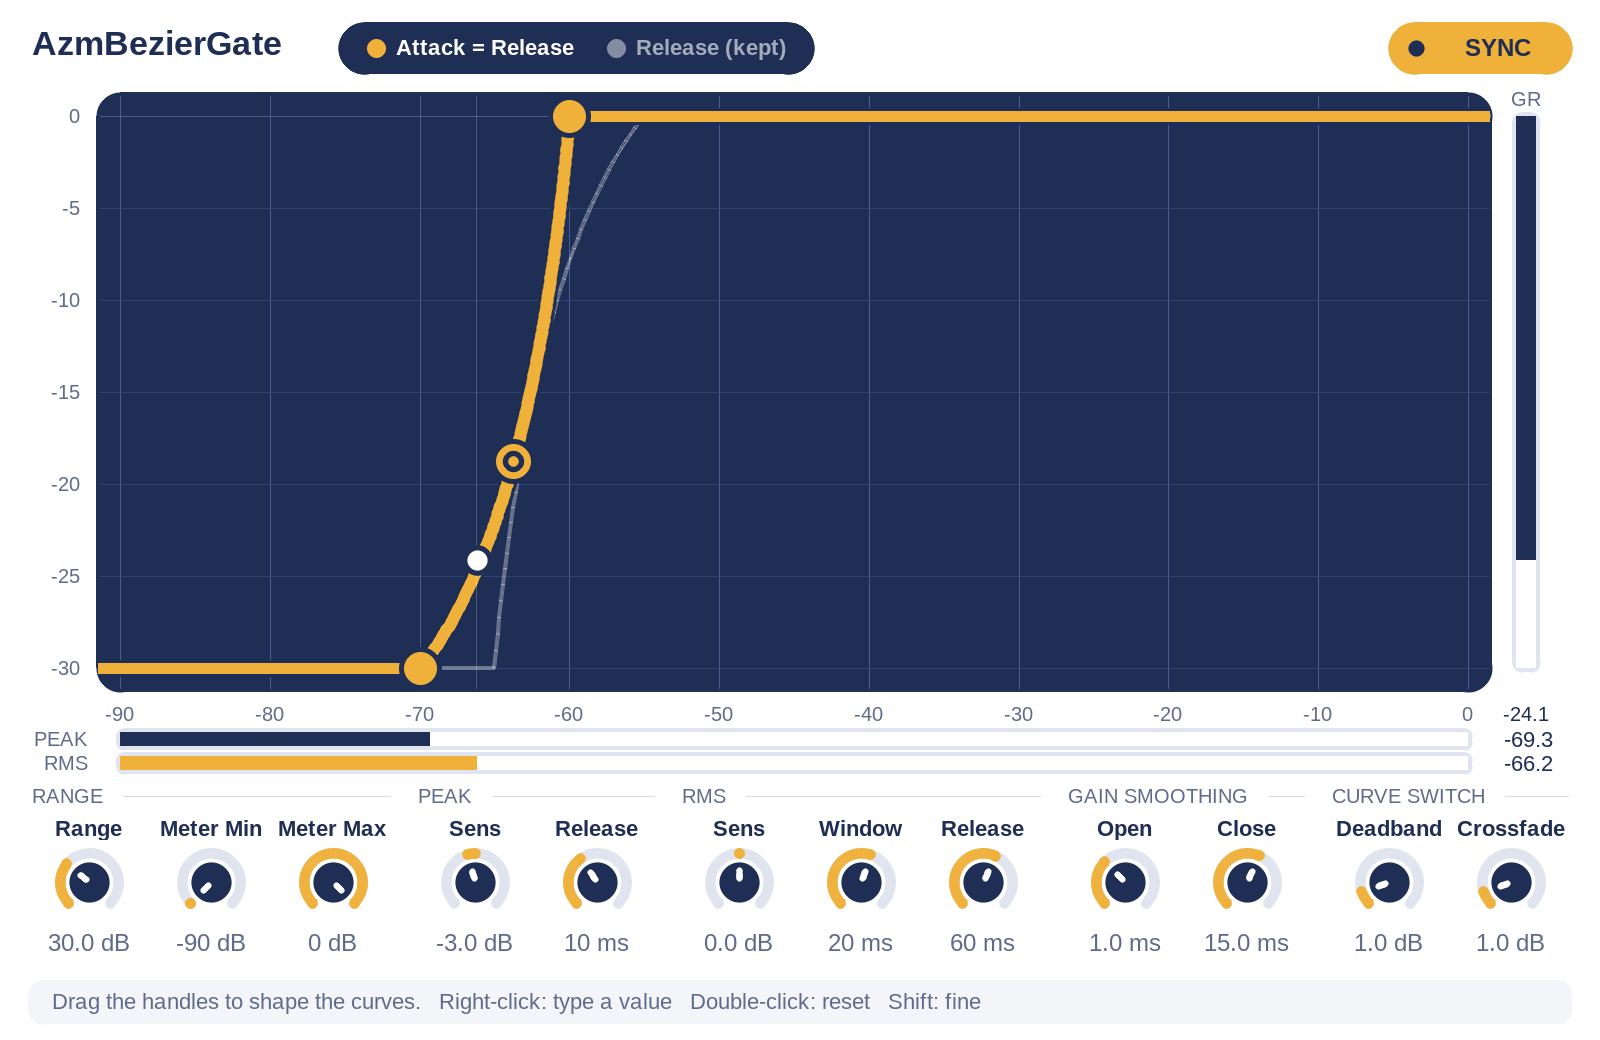
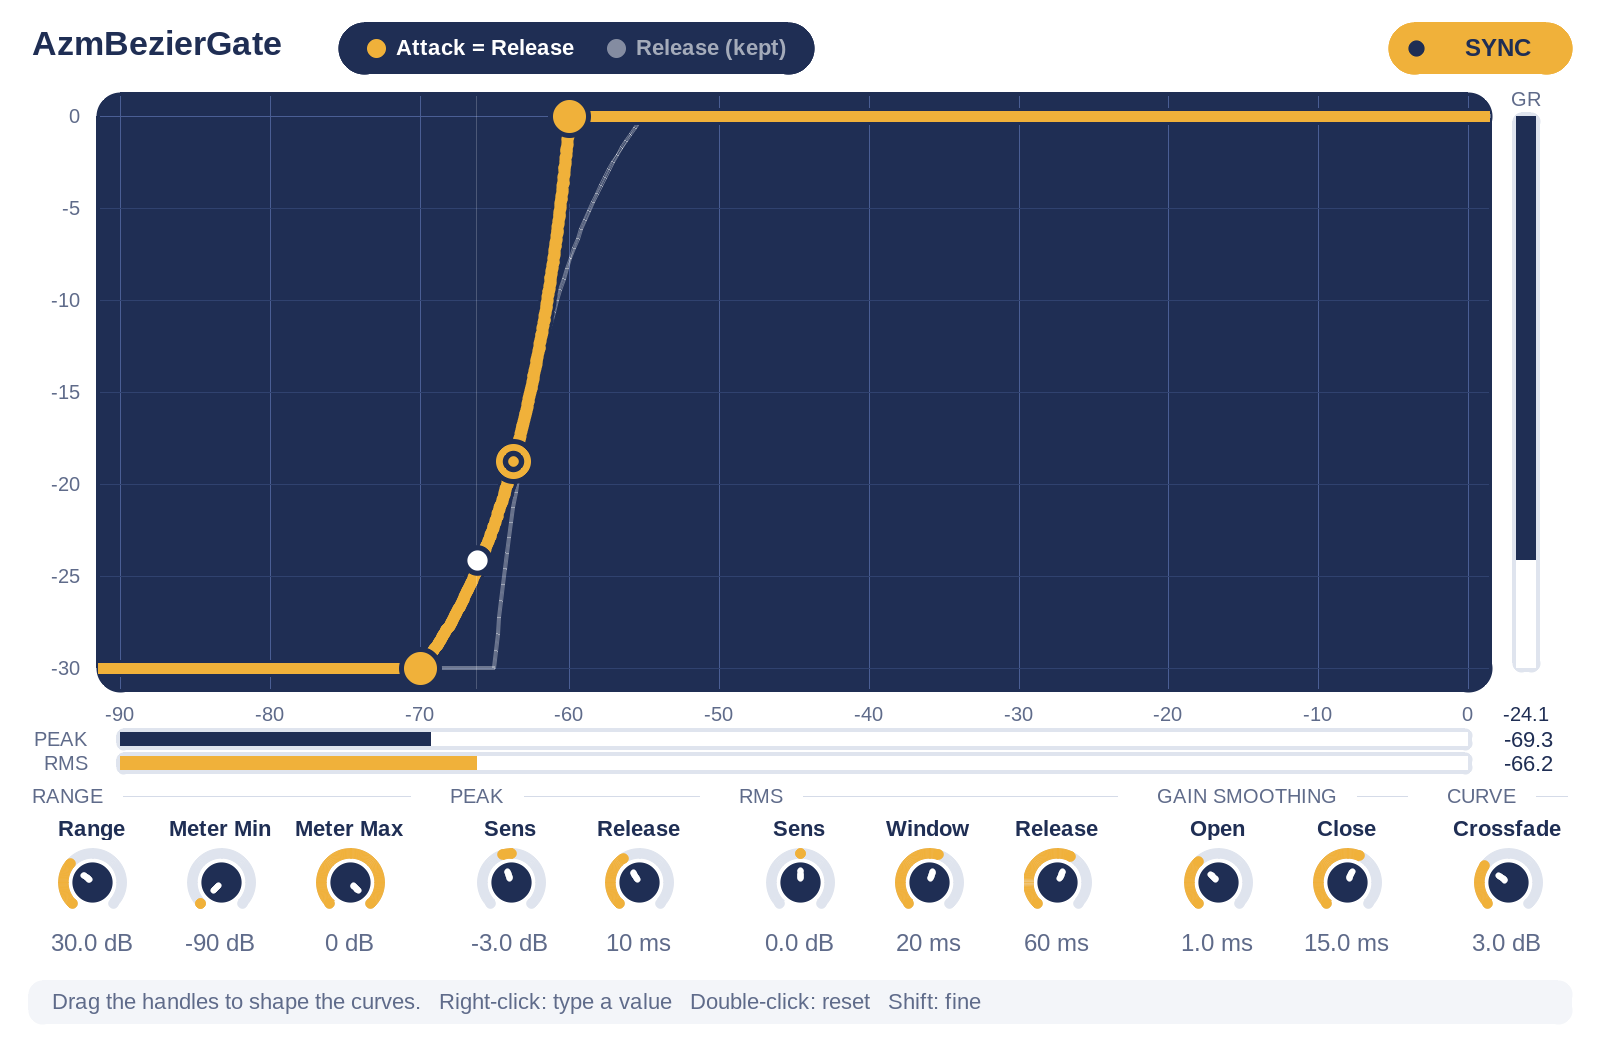
Keep only the Crossfade knob (default 3 dB); dead-band back to fixed 3 dB
Remove the Deadband knob: the direction dead-band is a fixed 3 dB constant
again. Crossfade stays adjustable (0-10 dB, default 3 dB, slider 18), so the
default output is bit-identical to the version before the curve-switch knobs.
The last knob group is now "CURVE" with a single Crossfade knob, and the knob
row layout is tidied for 11 knobs. README, algorithm doc and screenshots are
updated to match.

Changed region(s): [[0.0312, 0.7385, 0.9688, 0.9231]]

diff --git a/README.md b/README.md
@@ -83,7 +83,7 @@ TDR Kotelnikov の Peak と RMS のリリースをヒントに、異なる時間
 | PEAK | Sens / Release | Peak 検知の感度と、検知値が下がる遅さ。 |
 | RMS | Sens / Window / Release | RMS 検知の感度、平均時間、検知値が下がる遅さ。 |
 | GAIN SMOOTHING | Open / Close | ゲインが開くとき・閉じるときの平滑時間。 |
-| CURVE SWITCH | Deadband / Crossfade | 上がる・下がるの切り替えの鈍さ（0〜10 dB。下記）。Attack が左のときだけ効く。 |
+| CURVE | Crossfade | Attack が左のとき、上がる／下がるが切り替わったあとに、目標を一方のカーブから他方へ移す幅（0〜10 dB）。 |
 
 最下段の帯には操作のヒントが出ます。ハンドルやつまみにマウスを乗せると、その説明に切り替わります。
 
@@ -112,18 +112,12 @@ TDR Kotelnikov の Peak と RMS のリリースをヒントに、異なる時間
 | Attack が左（既定値。Attack -70 / -60 dB、Release -65 / -55 dB） | 小さい音から先に Attack で開く。下がるときは Release に沿って、開いたときより高いレベルから閉じ始める。ゲインは2本のカーブの間でループを描く。 |
 | Attack が右 | 2本の間（グラフで薄く塗った帯）にいる間は、ゲインを保持する（ヒステリシス）。上がるときは Attack まで、下がるときは Release まで動かないと変化しない。 |
 
-上がる・下がるが細かく入れ替わる音（息や声の揺らぎ）では、ゲインが2本のカーブの間を行き来して「バチバチ」しやすくなります。Attack が左のとき、これを下段の **CURVE SWITCH** の2つのつまみ（0〜10 dB、既定値はどちらも 1 dB）で抑えています。
+上がる・下がるが細かく入れ替わる音（息や声の揺らぎ）では、ゲインが2本のカーブの間を行き来して「バチバチ」しやすくなります。Attack が左のとき、これを次の2つで抑えています。
 
-- **Deadband（不感帯）**：上がる・下がるを切り替えるのは、レベルが直前の頂点（谷）から Deadband 以上逆向きに動いたとき。それより小さな揺れでは向きを変えず、ゲインはそのまま保持する。
-- **Crossfade**：向きが切り替わったあと、目標を Attack から Release（またはその逆）へ、レベルが Crossfade 動く間にゆるやかに移す。目標が飛び移らない。0 dB にすると、ほぼ瞬時に切り替わる。
+- **3 dB の不感帯（固定値）**：上がる・下がるを切り替えるのは、レベルが直前の頂点（谷）から 3 dB 以上逆向きに動いたとき。それより小さな揺れでは向きを変えず、ゲインはそのまま保持する。
+- **クロスフェード（つまみ。0〜10 dB、既定値 3 dB）**：向きが切り替わったあと、目標を Attack から Release（またはその逆）へ、レベルがこの幅だけ動く間にゆるやかに移す。目標が飛び移らない。0 dB にすると、ほぼ即座に切り替わる。
 
-調整の目安です。
-
-- 細かい「バチバチ」が残るときは、Deadband を上げる（揺れの幅より少し大きく）。上げすぎると、ピークのあとに閉じ始めるのが遅れ、そのあと一気に閉じる。
-- 向きが切り替わったときの段差（「ブツッ」）が気になるときは、Crossfade を上げるか、Gain Smooth Open を長くする。
-- 既定値の 1 dB は控えめな値です。3 dB にすると、細かい揺れをより強く抑えられますが、ピークのあとに閉じ始めるのが、その分遅れます。
-
-実際のゲインは、さらに Gain Smoothing でなだらかになります。この2つは、Attack が右のときと Sync が On のときは使いません。動きの詳細と測定結果は [`docs/algorithm.md`](docs/algorithm.md) の 3 章にあります。
+実際のゲインは、さらに Gain Smoothing でなだらかになります。3 dB を超えて本当に向きが変わったときは、新しい目標へ Gain Smoothing の速さで動くため、数 dB の段差が出ることがあります。気になる場合は、Crossfade を大きくするか、Gain Smooth Open / Close を長くしてください。Crossfade を大きくすると、ピークのあとにゲインが Release のカーブへ完全に移るまでが、その分遅くなります。動きの詳細と測定結果は [`docs/algorithm.md`](docs/algorithm.md) の 3 章にあります。
 
 **Sync Attack / Release** は、一時的なモードです。
 
@@ -158,8 +152,7 @@ TDR Kotelnikov の Peak と RMS のリリースをヒントに、異なる時間
 | Gain Smooth Close (ms) | 0.1〜500 | 15 | ゲインが閉じる方向の平滑時定数。 |
 | Meter Min (dB) | -90〜-30 | -90 | グラフの横軸と Peak / RMS メーターの下限。表示だけに影響する。 |
 | Meter Max (dB) | -60〜0 | 0 | グラフの横軸と Peak / RMS メーターの上限。表示だけに影響する。 |
-| Curve Switch Deadband (dB) | 0〜10 | 1 | 上がる・下がるを切り替えるのに必要な、逆向きのレベルの動き。これより小さい揺れでは、向きもゲインも変えない（Attack が左のときだけ効く）。 |
-| Curve Switch Crossfade (dB) | 0〜10 | 1 | 向きが切り替わったあと、目標を Attack ⇔ Release へ移す間のレベルの動き。0 だと、ほぼ瞬時に切り替わる（Attack が左のときだけ効く）。 |
+| Crossfade (dB) | 0〜10 | 3 | 上がる／下がるが切り替わったあと、目標を一方のカーブから他方へ移すのに、レベルが動く幅。0 でほぼ即座に切り替わる。Attack が右のとき、Sync が On のときは使われない。 |
 
 ### アルゴリズムの概要
 
@@ -168,7 +161,7 @@ TDR Kotelnikov の Peak と RMS のリリースをヒントに、異なる時間
 - 検知は L/R の絶対値の大きい方（ステレオリンク）で行い、同じゲインを両チャンネルにかける。ルックアヘッドはなく、遅延は加わらない。
 - **Peak** は即時アタック＋指数リリース。**RMS** は2乗平均の1次平滑＋リリースで、正弦波ではピークと同じ値になるよう合わせてある。それぞれに感度（dB）をかけ、大きい方を検知レベルとする。
 - **カーブ**は Close〜Open を 0〜1 に正規化し、制御点を1つ持つ2次ベジェ曲線で結ぶ。Shape が制御点の位置にあたる。逆算は閉じた式で、反復計算はない。
-- **上がる／下がるの判定と目標ゲイン**：Attack が左のとき（既定）は、検知レベルが上がっているか下がっているかを、Deadband（既定 1 dB）の不感帯付きで判定する。上がっている間は Attack、下がっている間は Release のカーブを目標とし、向きが変わった直後は、レベルが Crossfade（既定 1 dB）動く間に目標を一方から他方へ移す。ゲインは、上がっている間は開く方向（Gain Smooth Open）にだけ、下がっている間は閉じる方向（Close）にだけ、目標へ動く。Attack が右のときは、2本のカーブの間でゲインを保持し、下回れば開く方向、上回れば閉じる方向へ動かす。
+- **上がる／下がるの判定と目標ゲイン**：Attack が左のとき（既定）は、検知レベルが上がっているか下がっているかを、3 dB の不感帯付きで判定する。上がっている間は Attack、下がっている間は Release のカーブを目標とし、向きが変わった直後は、レベルが Crossfade（既定 3 dB）動く間に目標を一方から他方へ移す。ゲインは、上がっている間は開く方向（Gain Smooth Open）にだけ、下がっている間は閉じる方向（Close）にだけ、目標へ動く。Attack が右のときは、2本のカーブの間でゲインを保持し、下回れば開く方向、上回れば閉じる方向へ動かす。
 - **ゲイン平滑**は dB の領域の1次平滑で、開く方向と閉じる方向で時定数を分けている。
 - 再生開始時（JSFX の初期化後の最初のサンプル）は、そのときの検知レベルに対応するゲイン（2本のうち小さい方）から始める。
 - **Sync** は、使うカーブを Attack に切り替えるだけで、Release の設定は書き換えない。
@@ -180,7 +173,7 @@ TDR Kotelnikov の Peak と RMS のリリースをヒントに、異なる時間
 - Peak / RMS / 検知レベルのメーター値は、`@sample` が前回の描画以降の最大値を貯め、GUI が描画のたびに読み出して 0 に戻す。ゲイン（GR）は、`@sample` が更新している現在値を GUI が読むだけ。
 - Meter Min / Meter Max は表示専用。GUI で変えても、係数の再計算やオートメーションへの書き込みは行わない。
 - Sync は、実際に使う Release カーブの値（`e_*`）を Attack か Release のスライダーから選ぶだけで、Release のスライダーは書き換えない。
-- 上がる／下がるの判定に使う不感帯とクロスフェード幅は、スライダー 18 / 19（`dead_db` / `fade_db`）の値から、`update_coefs()` が `dir_dead` / `dir_fade` に写す。これらのスライダーを追加する前に保存したプロジェクトでは、既定値の 1 dB で読み込まれる（それまでは 3 dB の固定値だった）。
+- 上がる／下がるの判定に使う 3 dB の不感帯 `dir_dead` は、`@init` の固定値で、スライダーにはしていない。クロスフェード幅 `dir_fade` は、スライダー 18（`fade_db`）の値から `update_coefs()` が決める（除数に使うため、0.01 dB を下限にしている）。このスライダーを追加する前に保存したプロジェクトでは、既定値の 3 dB で読み込まれる（それまでは 3 dB の固定値だった）。
 
 ### 未実装
 
@@ -190,9 +183,9 @@ TDR Kotelnikov の Peak と RMS のリリースをヒントに、異なる時間
 
 オープンソースの JSFX インタプリタ（ysfx）で、描画とマウス・キー入力を再現してオフライン検証しました（今回の変更分を含む）。検証用のスクリプトは、このリポジトリには含めていません。
 
-- **処理（DSP）**：静的なカーブが計算どおりになること。Attack = 上がるとき、Release = 下がるとき、という役割が、Attack が左でも右でも名前どおりに働くこと（既定値でゆっくり上げ下げすると、上がるときは約 -70〜-60 dB、下がるときは約 -55〜-65 dB で動く）。別に書いた参照実装（Python）と、Attack が左・右・交差・Sync の各条件で出力が一致すること（差 0.00 dB）。Attack が右のときと Sync が On のときの出力が、変更前の処理と完全に一致すること。Deadband と Crossfade をどちらも 3 dB にすると、これらを固定値にしていた以前の処理と出力が完全に一致すること（48 通りの条件）。Sync を Off に戻すと別々に調整した Release の値がそのまま戻ること。ブロックサイズ（1〜4096 サンプル）が違っても出力が完全に一致すること。サンプルレート（22.05〜192 kHz）で出力が有限で、入力より大きくならないこと。
-- **ばたつきの抑え**：8 Hz で揺れるレベルを与え、ゲインの上下の動きの総量を、Deadband と Crossfade の設定ごとに比べた（0 / 0 の単純な切り替え、既定値の 1 / 1 など。結果は [`docs/algorithm.md`](docs/algorithm.md) の 3.5 節）。既定値の 1 dB は、3 dB より抑える効果が弱いことも、この測定で確認した。
-- **GUI**：複数のウィンドウサイズと HiDPI 相当の描画、ハンドル・つまみ（CURVE SWITCH の Deadband / Crossfade を含む）のドラッグ、ホイール、右クリックでの数値入力、ダブルクリックでのリセット、Sync の切り替え、Meter Min / Max による表示範囲の変更、ランダムな操作の連続。白・紺・山吹色の配色で、カーブやハンドルがグラフの外にはみ出さないこと。GUI で編集した結果が、スライダーを直接動かしたときと完全に一致すること。GUI が DSP の内部状態を書き換えないこと。
+- **処理（DSP）**：静的なカーブが計算どおりになること。Attack = 上がるとき、Release = 下がるとき、という役割が、Attack が左でも右でも名前どおりに働くこと（既定値でゆっくり上げ下げすると、上がるときは約 -70〜-60 dB、下がるときは約 -55〜-65 dB で動く）。別に書いた参照実装（Python）と、Attack が左・右・交差・Sync の各条件で出力が一致すること（差 0.00 dB）。Attack が右のときと Sync が On のときの出力が、変更前の処理と完全に一致すること。Crossfade が既定値の 3 dB のとき、これを固定値にしていた以前の処理と出力が完全に一致すること（48 通りの条件）。Sync を Off に戻すと別々に調整した Release の値がそのまま戻ること。ブロックサイズ（1〜4096 サンプル）が違っても出力が完全に一致すること。サンプルレート（22.05〜192 kHz）で出力が有限で、入力より大きくならないこと。
+- **ばたつきの抑え**：8 Hz で揺れるレベルを与え、ゲインの上下の動きの総量を、不感帯なしの単純な切り替えと、Crossfade の設定ごと（0 / 1 / 3 dB）に比べた（結果は [`docs/algorithm.md`](docs/algorithm.md) の 3.5 節）。
+- **GUI**：複数のウィンドウサイズと HiDPI 相当の描画、ハンドル・つまみ（Crossfade を含む）のドラッグ、ホイール、右クリックでの数値入力、ダブルクリックでのリセット、Sync の切り替え、Meter Min / Max による表示範囲の変更、ランダムな操作の連続。白・紺・山吹色の配色で、カーブやハンドルがグラフの外にはみ出さないこと。GUI で編集した結果が、スライダーを直接動かしたときと完全に一致すること。GUI が DSP の内部状態を書き換えないこと。
 
 REAPER 本体での確認と聴感確認はこれからです。特に次の点は、実機で確かめる必要があります。
 
